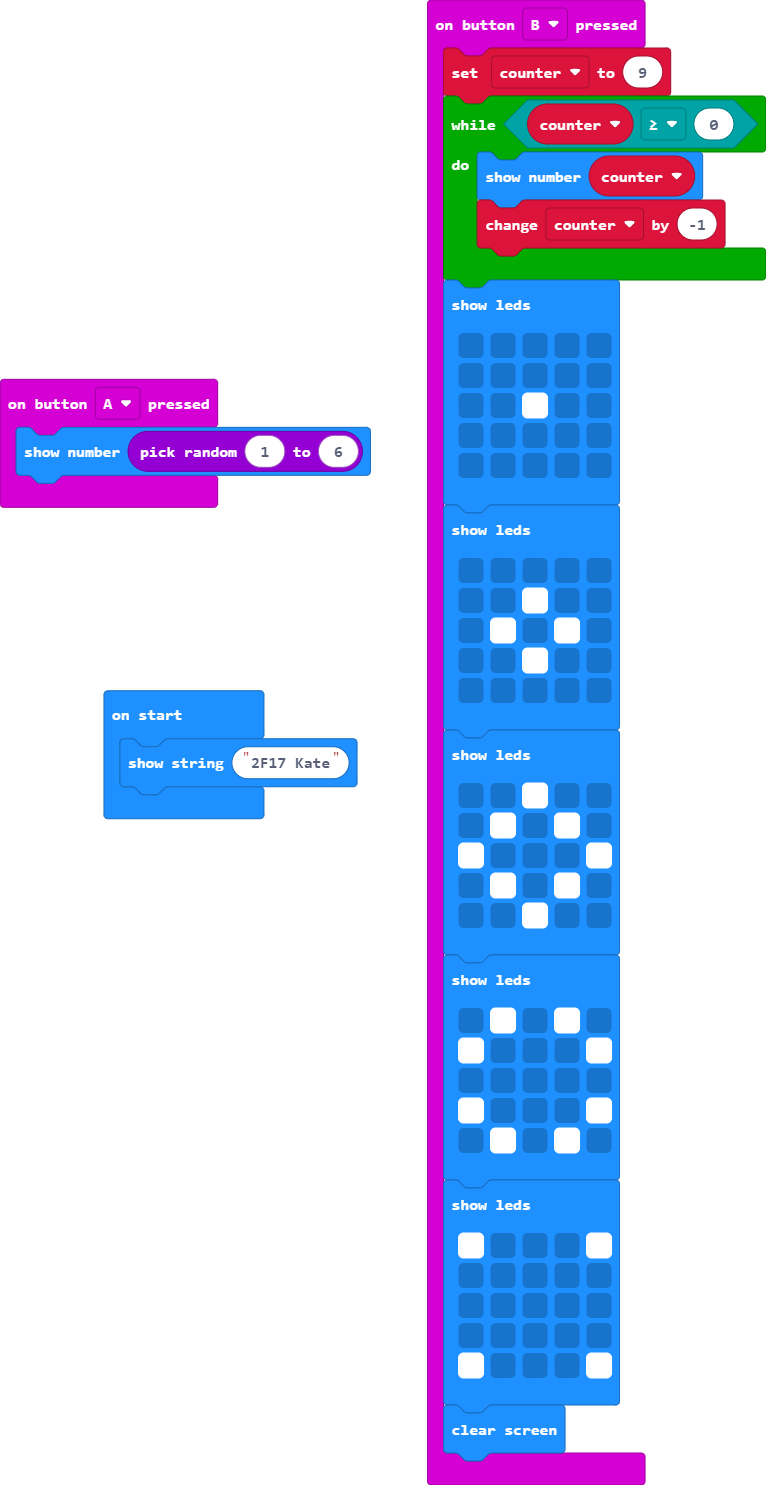
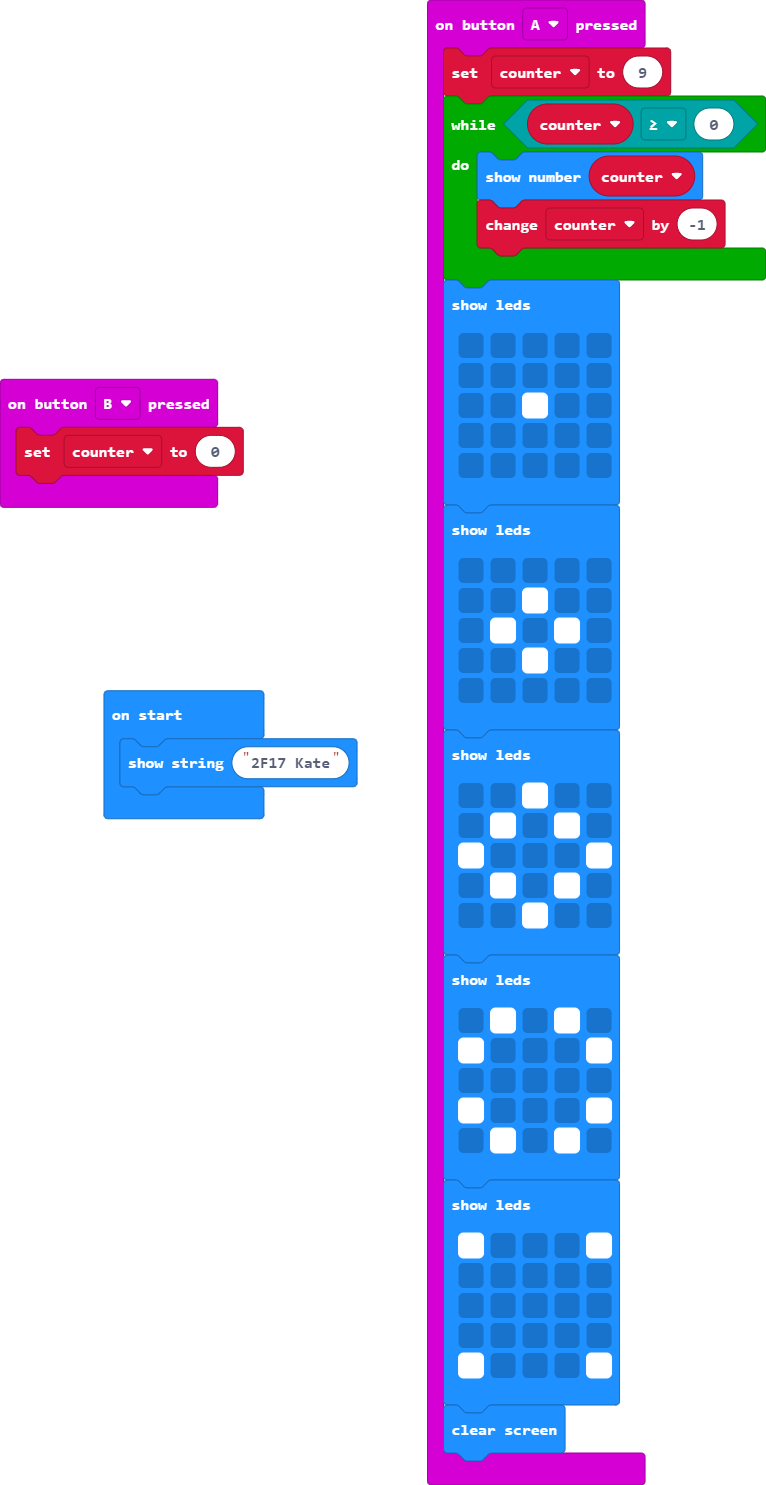
Update main.blocks, main.ts

Changed region(s): [[0.0, 0.2788, 0.4804, 0.3407]]

diff --git a/main.ts b/main.ts
@@ -1,7 +1,4 @@
 input.onButtonPressed(Button.A, function () {
-    basic.showNumber(randint(1, 6))
-})
-input.onButtonPressed(Button.B, function () {
     counter = 9
     while (counter >= 0) {
         basic.showNumber(counter)
@@ -43,6 +40,9 @@ input.onButtonPressed(Button.B, function () {
         # . . . #
         `)
     basic.clearScreen()
+})
+input.onButtonPressed(Button.B, function () {
+    counter = 0
 })
 let counter = 0
 basic.showString("2F17 Kate")
